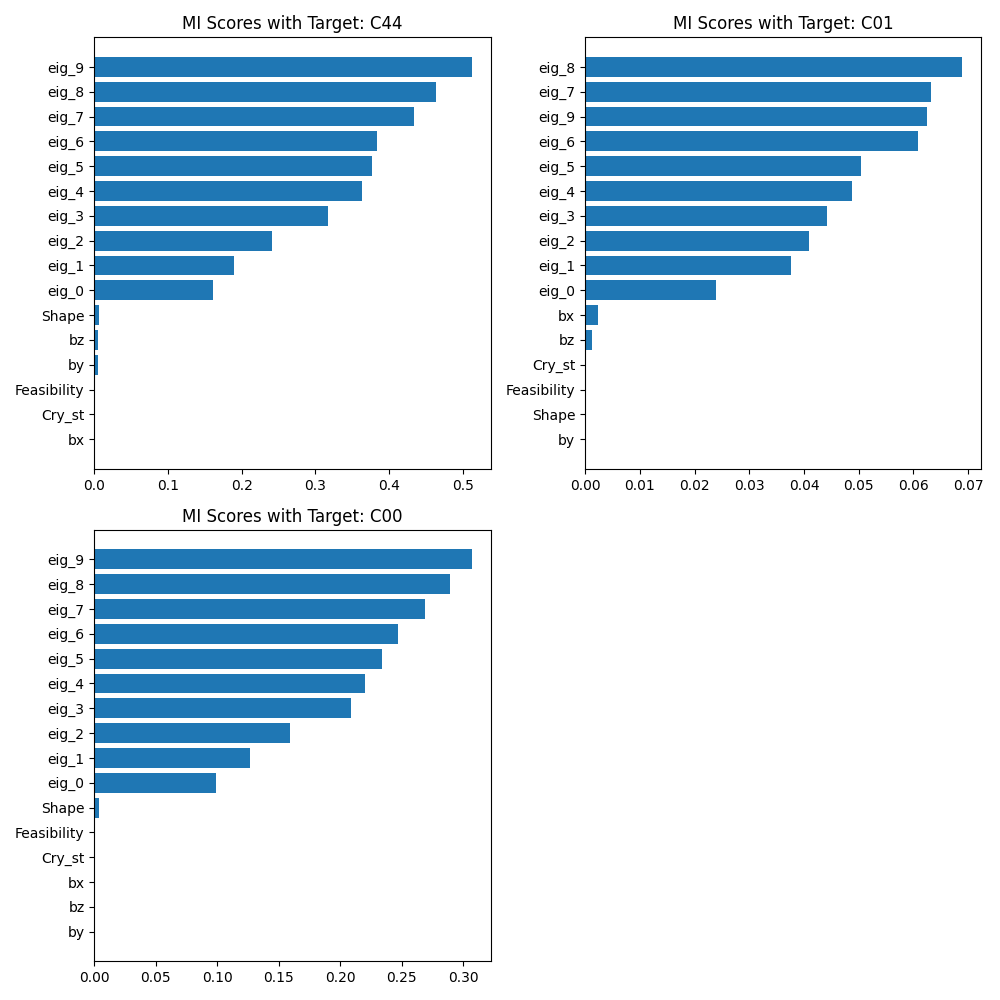
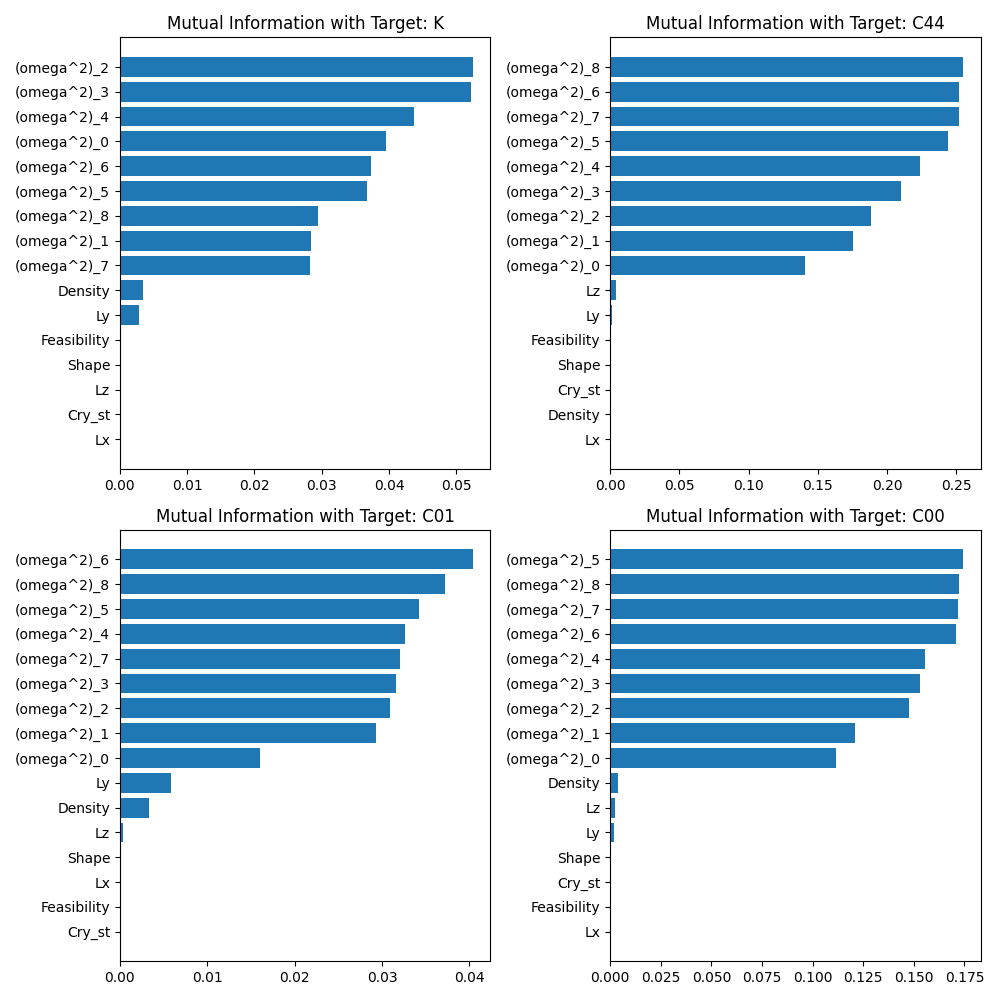
graphs for reunion

diff --git a/variables_MI.py b/variables_MI.py
@@ -59,7 +59,7 @@ def main():
 
     # Configurar argparse para aceptar el CSV, múltiples targets y variables
     parser = argparse.ArgumentParser(description="Mostrar la información mutua entre varios targets y varias variables en un único gráfico.")
-    parser.add_argument('--csv', type=str, help="Ruta del archivo CSV.", default='data/f_Eigen_Header.csv')
+    parser.add_argument('--csv', type=str, help="Ruta del archivo CSV.", default='data/f_Omega_Header.csv')
     parser.add_argument('--variables', nargs='+', required=False, help="Columnas del dataset a comparar con los targets", default=None)
     parser.add_argument('--targets', nargs='+', required=True, help="Columnas objetivo para calcular la información mutua")
     parser.add_argument('--save', type=str, help="Ruta donde guardar el gráfico generado.", default='/tmp/MI_multiple_targets.png')
@@ -77,6 +77,8 @@ def main():
     except FileNotFoundError:
         print(f"Error: El archivo '{csv_file}' no se encontró.")
         return
+    
+    dataset_df['K'] = dataset_df['C01'] + (2/3)*dataset_df['C44']
     
     if selected_columns is None:
         selected_columns = list(dataset_df.columns[:37])
